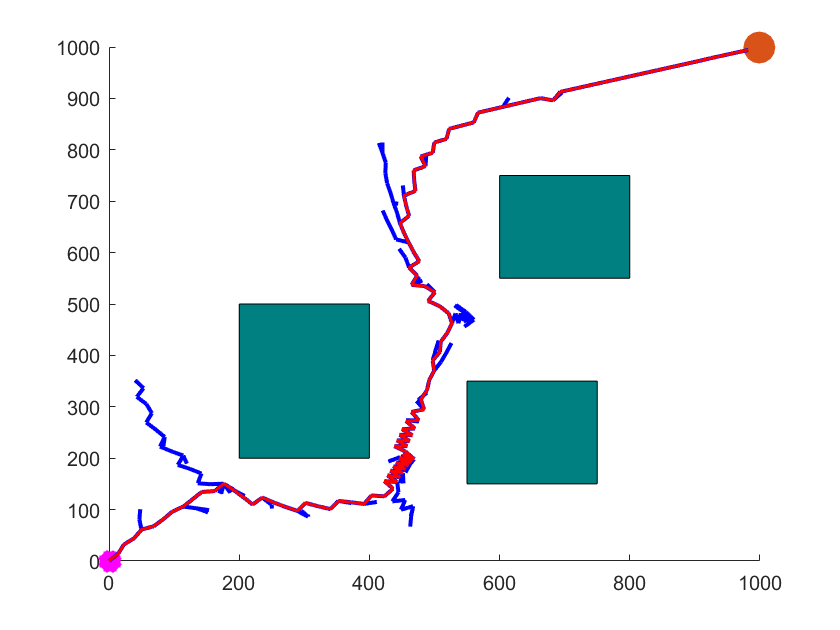
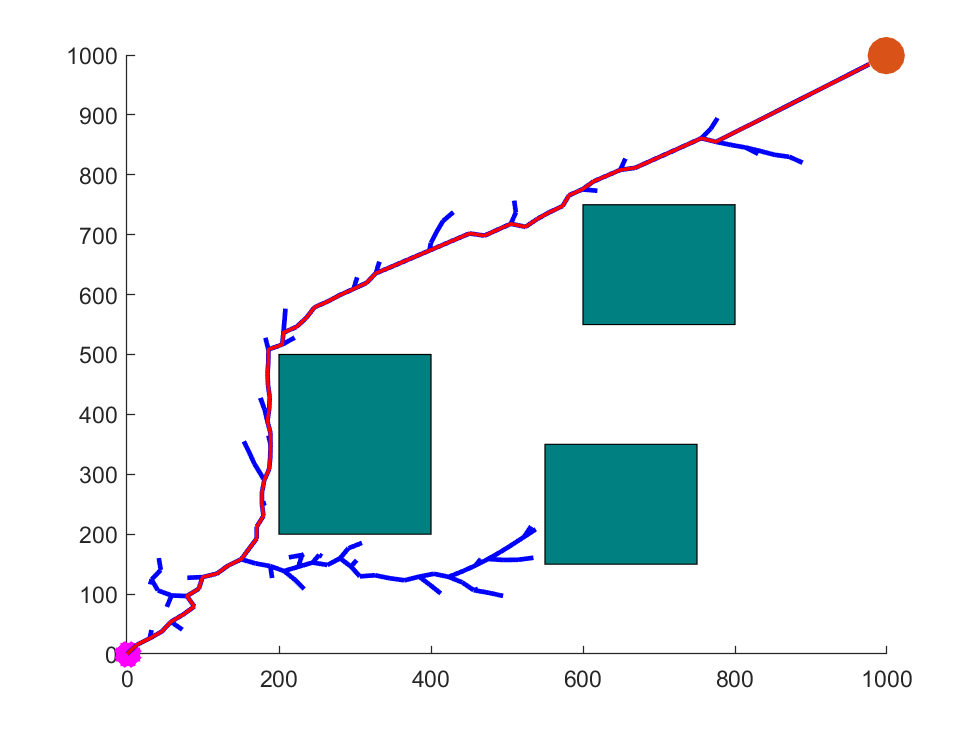
修复APF中计算距离错误和计算力错误的bug，原作者括号位置打错了

diff --git a/RRT + APF/rrt.m b/RRT + APF/rrt.m
@@ -103,11 +103,11 @@ end
 function [F] = REP_F(near_point,random_point,obstacle)
     global goal_pose;
     global p0;                                                  % Range of repulsion  
-    px = norm([near_point(1)-(obstacle(1)+obstacle(3)/2),near_point(2)-(obstacle(2)+obstacle(4)/2)],2);     % The distance from the nearest node to the obstacle
+    px = norm([near_point(1)-(obstacle(1)+obstacle(3))/2,near_point(2)-(obstacle(2)+obstacle(4))/2],2);     % The distance from the nearest node to the obstacle
     if px>p0
         F=[0,0];
     else
-        F = (1/px-1/p0)/(px)^2*([near_point(1)-(obstacle(1)+obstacle(3)/2),near_point(2)-(obstacle(2)+obstacle(4)/2)])/px;
+        F = (1/px-1/p0)/(px)^2*([near_point(1)-(obstacle(1)+obstacle(3))/2,near_point(2)-(obstacle(2)+obstacle(4))/2])/px;
     end
 end
 

diff --git a/RRT star + APF/rrt.m b/RRT star + APF/rrt.m
@@ -103,11 +103,11 @@ end
 function [F] = REP_F(near_point,random_point,obstacle)
     global goal_pose;
     global p0;                                          % Range of repulsion  
-    px = norm([near_point(1)-(obstacle(1)+obstacle(3)/2),near_point(2)-(obstacle(2)+obstacle(4)/2)],2);     % The distance from the nearest node to the obstacle
+    px = norm([near_point(1)-(obstacle(1)+obstacle(3))/2,near_point(2)-(obstacle(2)+obstacle(4))/2],2);     % The distance from the nearest node to the obstacle
     if px>p0
         F=[0,0];
     else
-        F = (1/px-1/p0)/(px)^2*([near_point(1)-(obstacle(1)+obstacle(3)/2),near_point(2)-(obstacle(2)+obstacle(4)/2)])/px;
+        F = (1/px-1/p0)/(px)^2*([near_point(1)-(obstacle(1)+obstacle(3))/2,near_point(2)-(obstacle(2)+obstacle(4))/2])/px;
     end
 end
 

diff --git a/RRT + APF/mainRRT.m b/RRT + APF/mainRRT.m
@@ -16,7 +16,7 @@ kp=1;
 global p0;              % Range of repulsion
 p0 = 250;
 global krep;            % Repulsion gain coefficient
-krep = 2;
+krep = 1;
 bias = 1.5*step;        % Allowable error
 numNodes = 5000;        
 counter = 0;

diff --git a/RRT star + APF/mainRRT.m b/RRT star + APF/mainRRT.m
@@ -17,7 +17,7 @@ kp=1;
 global p0;              % Range of repulsion
 p0 = 250;
 global krep;            % Repulsion gain coefficient
-krep = 2;
+krep = 1;
 bias = 1.5*step;        % Allowable error
 numNodes = 5000;        
 counter = 0;
